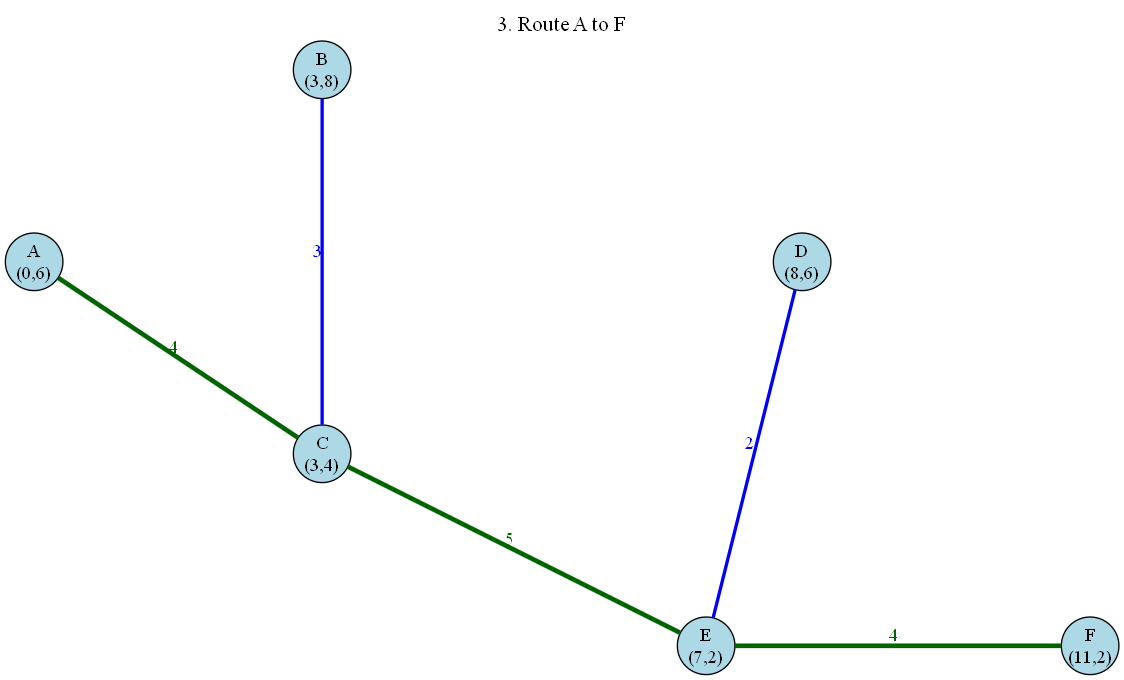
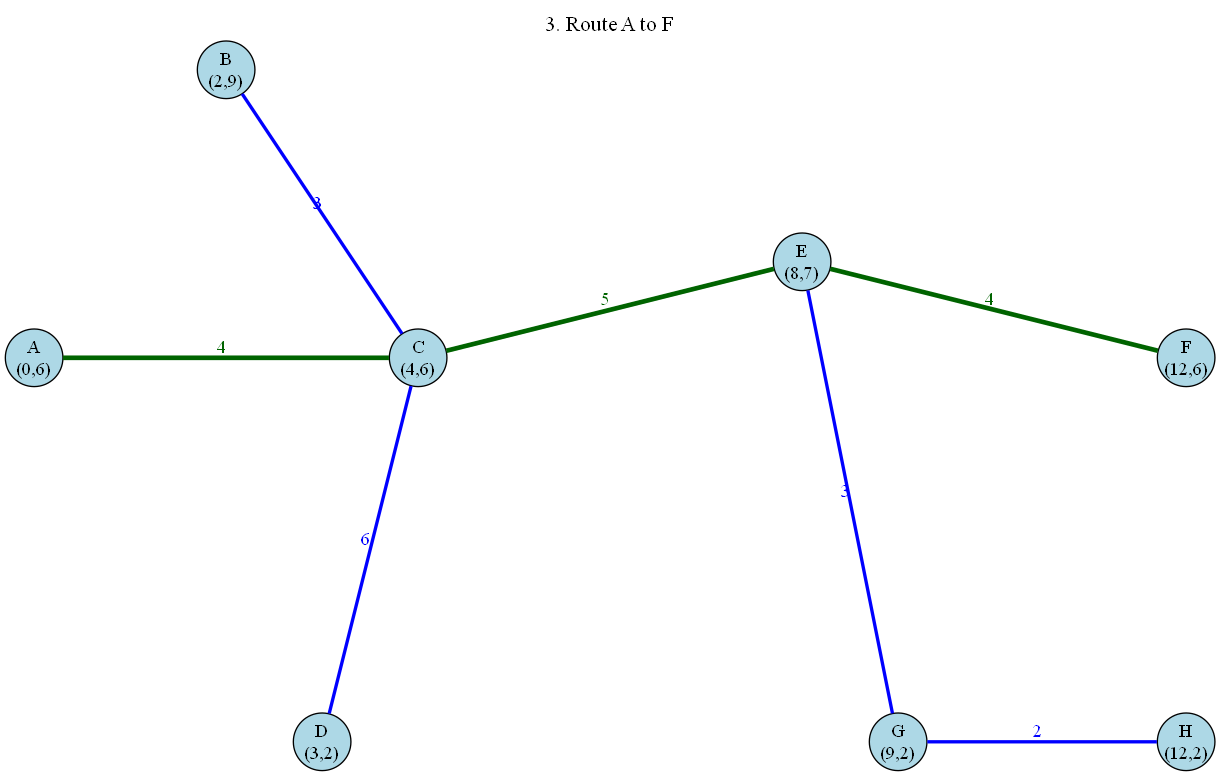
Added 2 or 3 comments and test cases

diff --git a/Entrega3/campusConnect.cpp b/Entrega3/campusConnect.cpp
@@ -1,7 +1,7 @@
 // This program implements CAMPUS CONNECT!, a university network planning system
 // that builds minimum-cost networks, finds communication routes, handles cable
 // failures and campus expansion, and exports visual network graphs using Graphviz.
-// Authors: Carmen Iris Vasquez Baizabal - A00843705 (add team members here)
+// Authors: Carmen Iris Vasquez Baizabal - A00843705, Francisco Santos Martinez Ortiz - A00843605, Erika Esquivel Correa A00841206
 // Date: 11/22/2026
 
 #include <iostream>
@@ -513,6 +513,8 @@ public:
     }
 };
 
+// Adds the campus configuration with a file into the graph
+// O(V+E)
 bool loadCampusFile(string filename, Graph& availableGraph, vector<Edge>& failedEdges,
                     vector<Node>& newNodes, vector<Edge>& newEdges) {
     ifstream readFile(filename);
@@ -602,6 +604,8 @@ bool loadCampusFile(string filename, Graph& availableGraph, vector<Edge>& failed
     return true;
 }
 
+// Compares two network configurations by printing costs, and cables adding/removals
+// O(V^2)
 void compareNetworks(Graph& prevNet, Graph& currNet, string label) {
     int prevCost = prevNet.getTotalCost();
     int currCost = currNet.getTotalCost();
@@ -656,6 +660,8 @@ void compareNetworks(Graph& prevNet, Graph& currNet, string label) {
     cout << endl;
 }
 
+// Generates the graphviz dot script and renders a png diagram
+// O(V^2)
 bool exportVisual(string baseName, string title, Graph& netGraph, Graph& contextGraph,
                   bool showContext, vector<Edge>& failedList, bool showFailed,
                   vector<char>& routePath, vector<Node>& newBuildings) {
@@ -753,7 +759,7 @@ bool exportVisual(string baseName, string title, Graph& netGraph, Graph& context
 }
 
 // Executes the complete CAMPUS CONNECT! simulation across all evaluation phases
-
+// O(V^2)
 void runCampusConnect(string filename, char routeStart, char routeEnd) {
     Graph availableGraph;
     vector<Edge> failedEdges;
@@ -844,7 +850,7 @@ void runCampusConnect(string filename, char routeStart, char routeEnd) {
 }
 
 int main() {
-     string filename = "test_fix.txt";
+     string filename = "test_fix3.txt";
     char startBuilding = 'A';
     char endBuilding = 'F';
 
